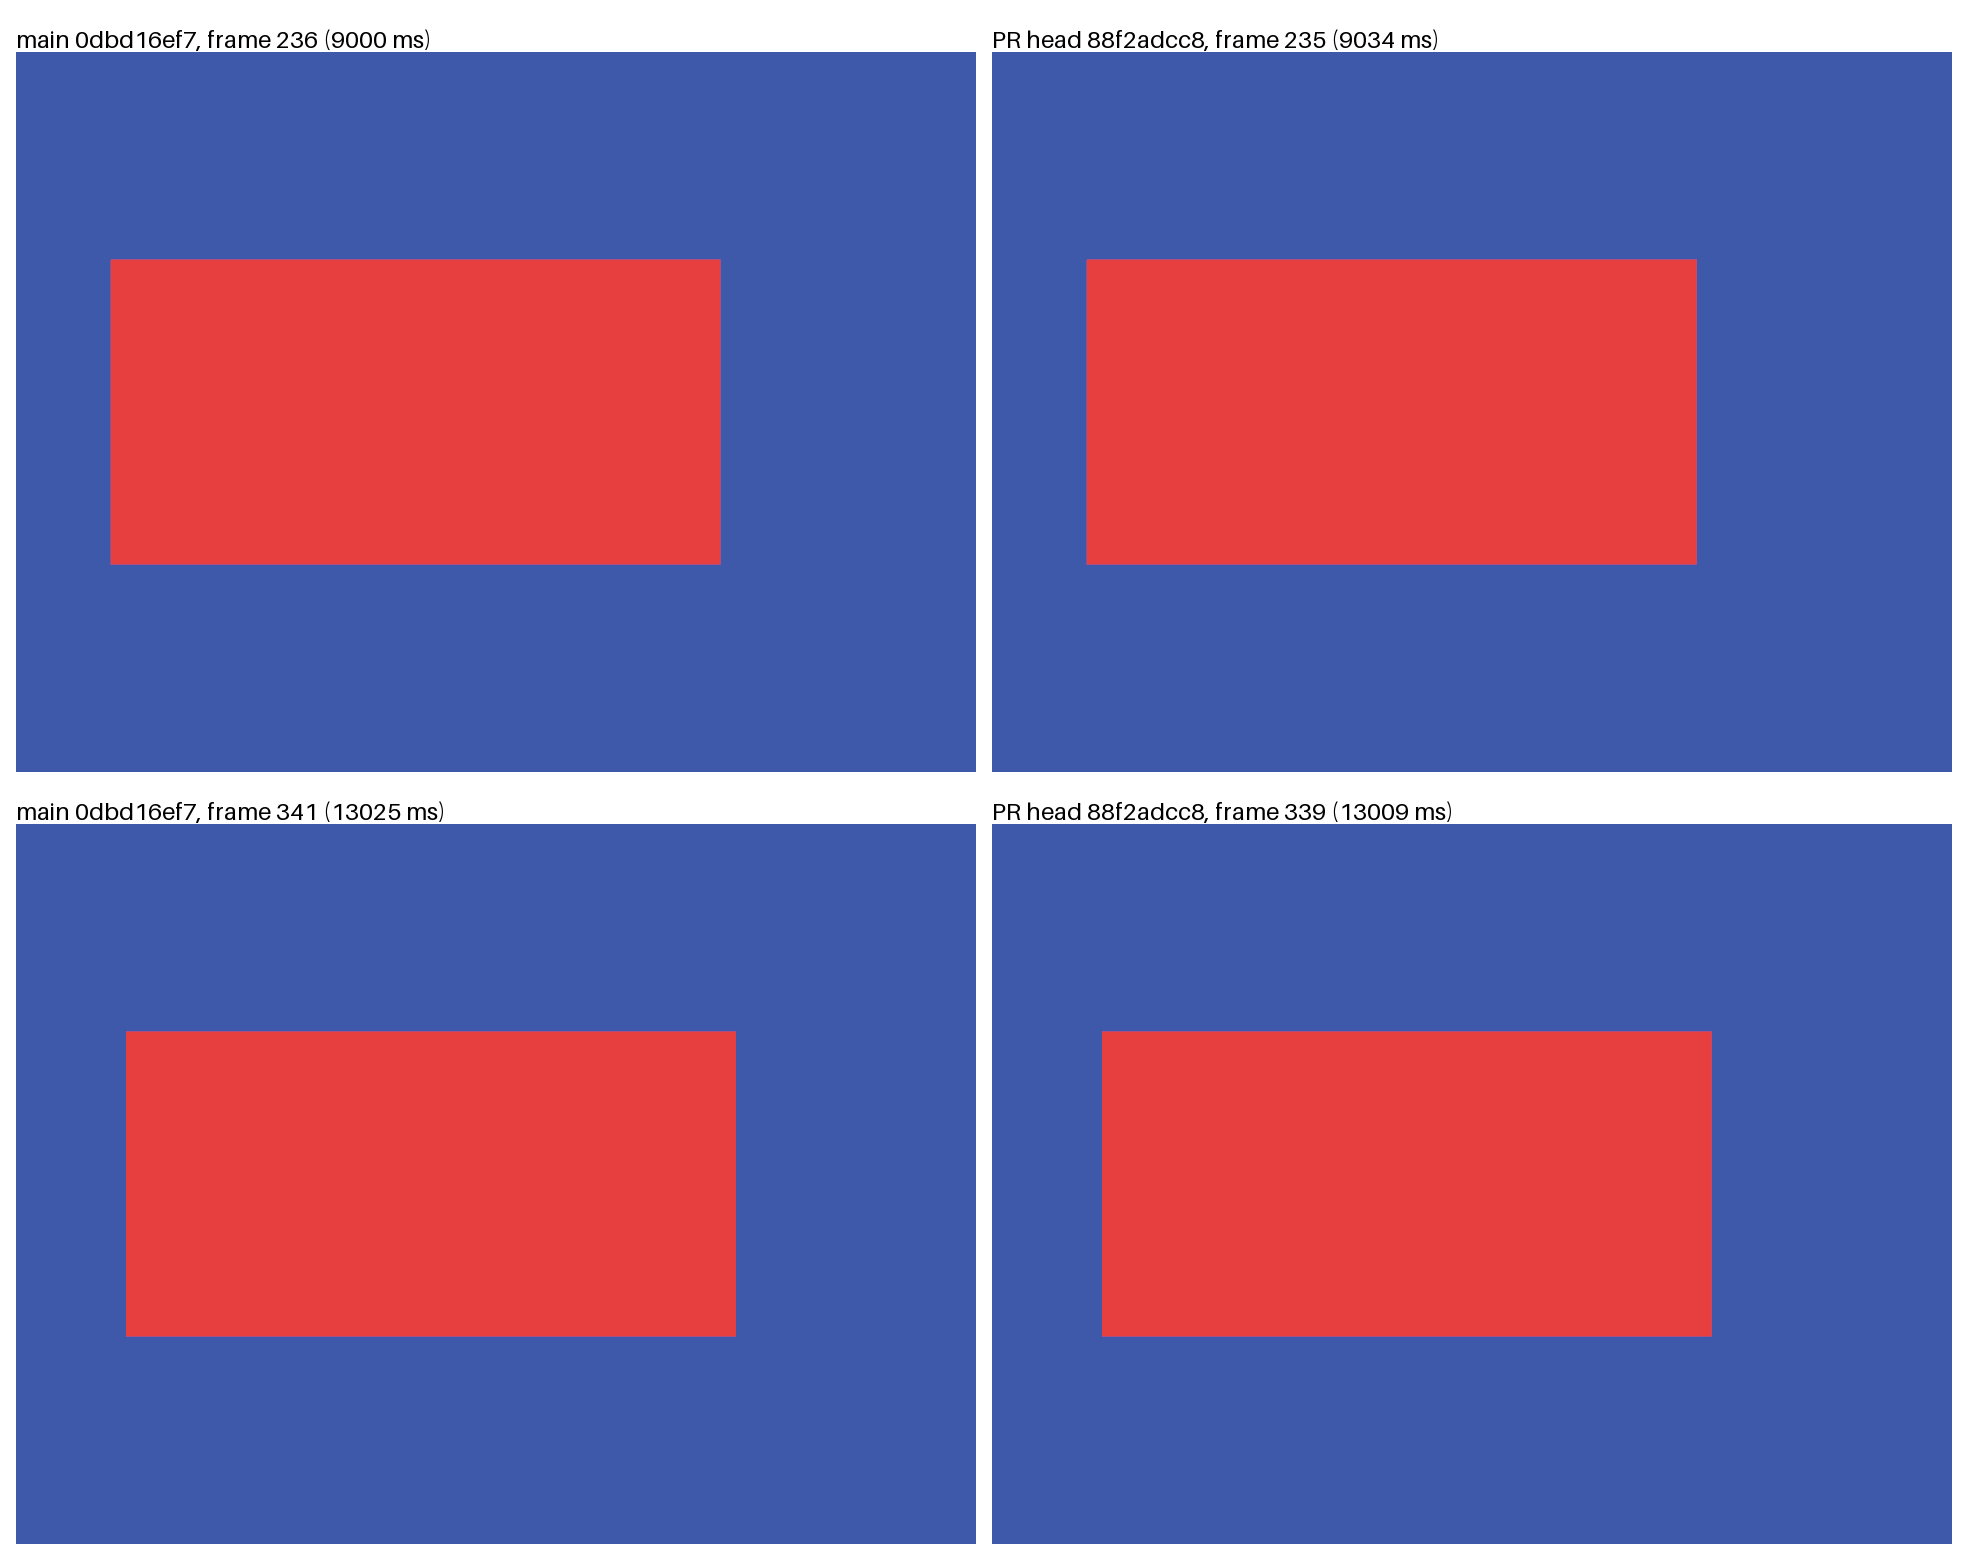
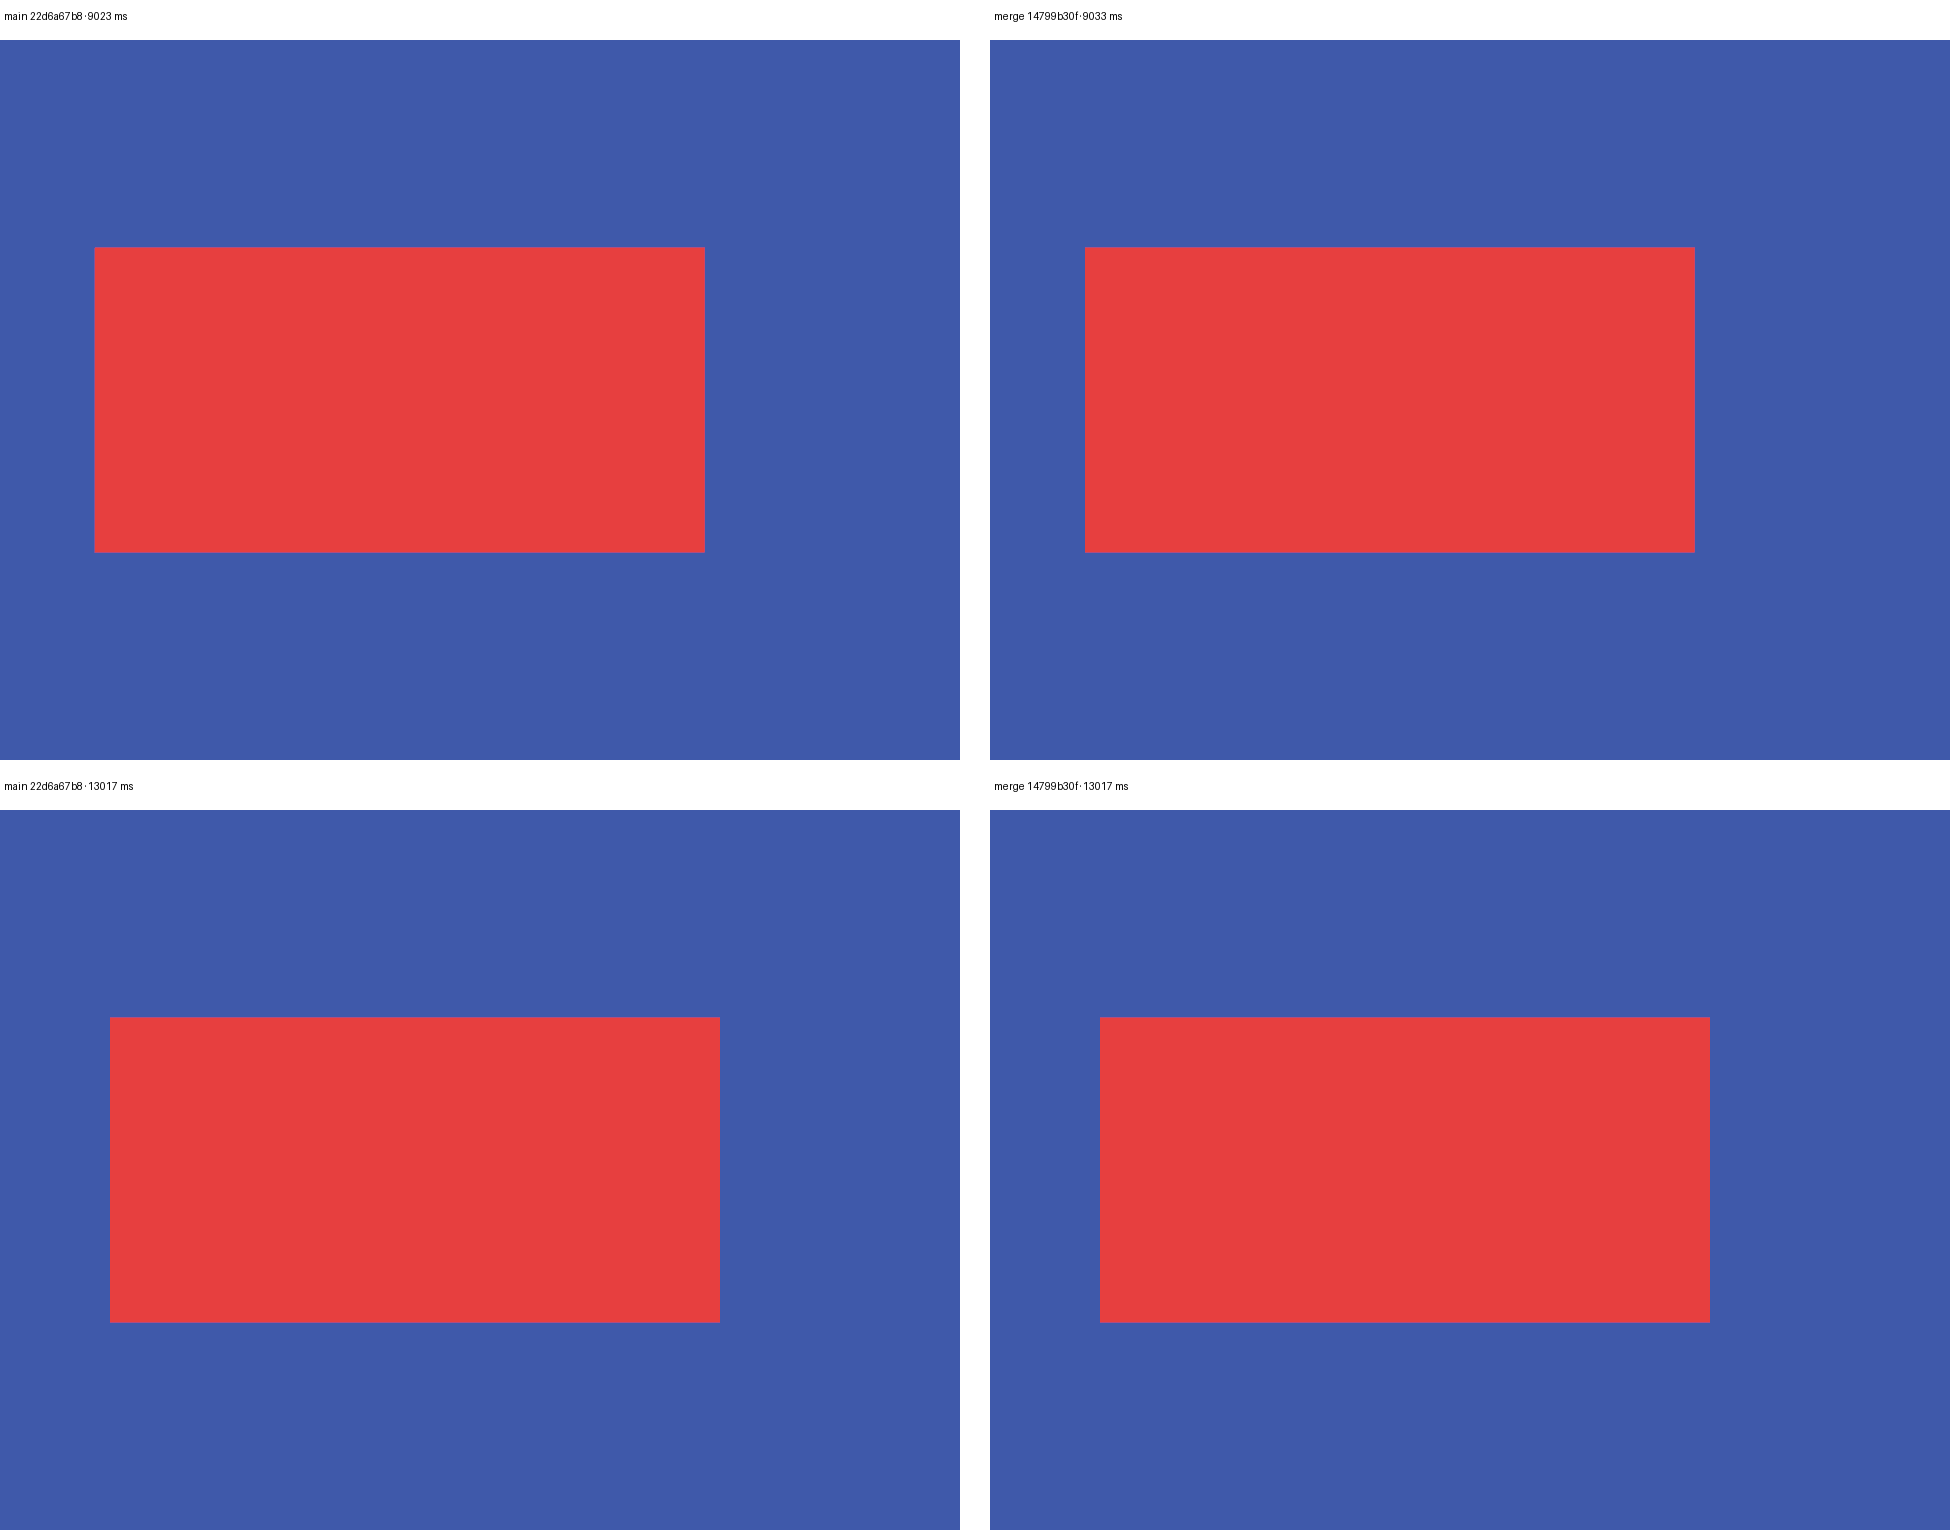
Evidence for #2956: screenshots retaken on the landing merge 14799b30f against main 22d6a67b8

diff --git a/docs/evidence/2956/visual-check/README.md b/docs/evidence/2956/visual-check/README.md
@@ -1,14 +1,15 @@
-# #2956 visual check: main 0dbd16ef7 against the PR head 88f2adcc8
+# #2956 visual check: main 22d6a67b8 against the final merge 14799b30f
 
 Run on the MacBook Pro (Mac18,1, M6, 32 GB) from a fresh GitHub clone, 2026-11-28, through
 `tests/acceptance/2494` unchanged (3 of 3 pass on both sides): a real hub, `deep show` of the suite's
 `fixtures/sliding-box.json`, and the real deep-app window (`deep-app --canvas`, the canvas-fixture build) at
-480 × 360 points, captured as the compositor received it.
+480 × 360 points, captured as the compositor received it. 14799b30f is the PR's landing merge: main 22d6a67b8
+merged into the PR.
 
-- `main-frame-236-window.png`, `head-frame-235-window.png`: the first frame at or after 9 s (main 9000 ms, head 9034 ms).
-- `main-frame-341-window.png`, `head-frame-339-window.png`: the first frame at or after 13 s (main 13025 ms, head 13009 ms).
+- `main-frame-235-window.png`, `merge-frame-236-window.png`: the first frame at or after 9 s (main 9023 ms, merge 9033 ms).
+- `main-frame-338-window.png`, `merge-frame-340-window.png`: the first frame at or after 13 s (main 13017 ms, merge 13017 ms).
 - `before-after.png`: the four side by side.
 
-Same colours and the same box. Each pair differs in one 1-pixel column at the moving box's right edge (305 pixels),
-the edge's anti-aliasing at capture times 16 to 34 ms apart. The change draws nothing differently: it adds the
-Mac18,1 to the reference lists, and no render code moves.
+Same colours and the same box. The 13 s pair is pixel-identical. The 9 s pair differs in one 1-pixel column at the
+moving box's left edge (305 pixels), the edge's anti-aliasing at capture times 10 ms apart. The change draws nothing
+differently: it adds the Mac18,1 to the reference lists, and no render code moves.
